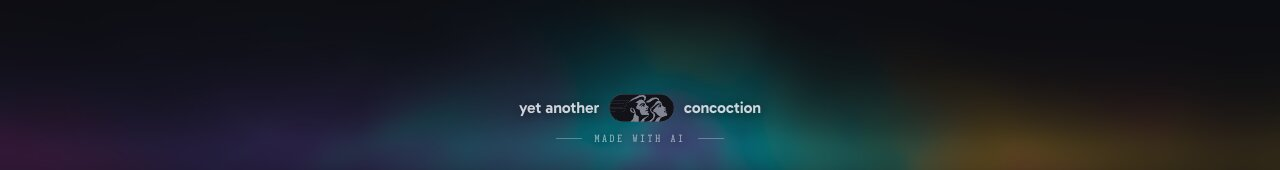
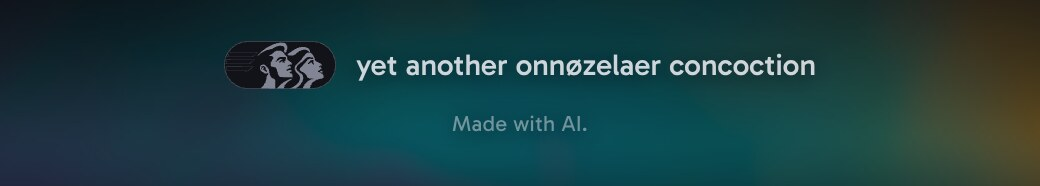
Clock footer: the chip leads the full line 'yet another onnøzelaer concoction'; 'Made with AI.' is a plain disclaimer under it

diff --git a/shared/menu/clock.css b/shared/menu/clock.css
@@ -107,20 +107,26 @@
 .clock-roll svg circle { fill: currentColor; stroke: none; }
 .clock-roll:active svg { rotate: 180deg; }
 
-/* The footer of the Clock: two centred lines. The first reads "yet another [mark] concoction":
-   the mark stands in place of its own name, on the words' middle. The second is a small caption. */
-:root[data-view="clock"] .credit[data-inline] { flex-direction: row; flex-wrap: wrap; justify-content: center; align-items: center; gap: 12px 0.6em; padding-bottom: 26px; }
-.clock-word { font: 600 16px/1 var(--sans); letter-spacing: -0.01em; }
-.clock-mark { position: relative; display: inline-flex; margin: 0 0.15em; }
-:root[data-view="clock"] .clock-mark .onno svg { height: 28px; transition: translate 0.5s cubic-bezier(0.16, 1, 0.3, 1), scale 0.5s cubic-bezier(0.3, 1.5, 0.5, 1); }
-:root[data-view="clock"] .clock-mark .onno:hover svg { translate: 0 -2px; scale: 1.08; }
-/* The caption: small slab caps, wide spaced, between two short hairlines. */
-.clock-note {
-  flex-basis: 100%; display: flex; justify-content: center; align-items: center; gap: 12px;
-  font: 500 10px/1 "Iosevka Term Slab", ui-monospace, monospace; letter-spacing: 0.26em; text-transform: uppercase;
-  color: color-mix(in oklch, var(--fg) 58%, transparent);
-}
-.clock-note::before, .clock-note::after { content: ""; width: 26px; height: 1px; background: currentColor; opacity: 0.55; }
+/* The footer of the Clock: a signature line, then a disclaimer, both centred.
+   The chip leads the line as its seal; the name onnøzelaer stays written in full. */
+:root[data-view="clock"] .credit[data-inline] { flex-direction: column; align-items: center; gap: 10px; padding-bottom: 24px; }
+.clock-sig { display: inline-flex; align-items: center; gap: 10px; cursor: default; }
+.clock-word { font: 500 15px/1.2 var(--sans); letter-spacing: 0; color: color-mix(in oklch, var(--fg) 86%, transparent); }
+.clock-mark { position: relative; display: inline-flex; }
+/* The chip sits a touch taller than the words' capitals and lifts a little on hover. */
+:root[data-view="clock"] .clock-mark .onno svg { height: 24px; transition: translate 0.5s cubic-bezier(0.16, 1, 0.3, 1); }
+:root[data-view="clock"] .clock-sig:hover .onno svg { translate: 0 -1px; }
+/* The whole line lights the chip, as the chip's own hover does on the menu. */
+:root[data-view="clock"] .clock-sig:hover .onno .cm-capsule { fill: oklch(0.16 0.012 275); stroke: oklch(0.95 0.008 275); }
+:root[data-view="clock"] .clock-sig:hover .onno .cm-band { stroke: none; }
+:root[data-view="clock"] .clock-sig:hover .onno .cm-band:nth-of-type(2) { fill: oklch(0.66 0.22 25); }
+:root[data-view="clock"] .clock-sig:hover .onno .cm-band:nth-of-type(3) { fill: oklch(0.86 0.17 90); }
+:root[data-view="clock"] .clock-sig:hover .onno .cm-band:nth-of-type(4) { fill: oklch(0.74 0.15 220); }
+:root[data-view="clock"] .clock-sig:hover .onno .cm-fig { fill: oklch(0.95 0.008 275) !important; }
+:root[data-view="clock"] .clock-sig:hover .onno .cm-grey { fill: #fff; }
+:root[data-view="clock"] .clock-sig:hover .ver { opacity: 1; }
+/* The disclaimer: an attribution, not a boast. Small, plain and quiet. */
+.clock-note { font: 400 11px/1.4 var(--sans); letter-spacing: 0.01em; color: color-mix(in oklch, var(--fg) 46%, transparent); }
 /* The version stands over the mark. */
 :root[data-view="clock"] .clock-mark .ver { left: 50%; bottom: calc(100% + 8px); translate: -50% 0; }
 /* The glow is a shader (mesh.js): light that rises from below the edge and flows. It replaces the CSS glow. */

diff --git a/shared/menu/clock.js b/shared/menu/clock.js
@@ -252,26 +252,25 @@ function start() {
   // The Re-roll stays away for the first five seconds.
   setTimeout(() => button.setAttribute('data-on', ''), 5000);
   addEventListener('keydown', e => { if (e.key.toLowerCase() === 'r' && !e.metaKey && !e.ctrlKey && !e.altKey) roll(); });
-  // The footer: two lines. The mark stands in the first in place of its own name,
-  // "yet another [mark] concoction"; the second is a small caption, "made with AI".
+  // The footer: a signature line, then a disclaimer. The chip is the line's seal: it leads
+  // "yet another onnøzelaer concoction", and the name stays written in full (Tom).
+  // "Made with AI" is an attribution, not a boast: it stays small and plain.
   const credit = /** @type {HTMLElement | null} */ (document.querySelector('.credit'));
   const words0 = credit?.querySelector('span'), mark = credit?.querySelector('.onno'), version = credit?.querySelector('.ver');
   if (credit && words0 && mark) {
-    const [before, after] = words0.textContent.split(/onn[\u00f8o]zelaer/i);
-    if (after !== undefined) {
-      const [noun, ...rest] = after.split('\u00b7');
-      const holder = Object.assign(document.createElement('span'), { className: 'clock-mark' });
-      holder.append(mark);
-      // The version stays the mark's next sibling: the menu's hover rule needs that.
-      if (version) holder.append(version);
-      words0.textContent = before.trim();
-      words0.className = 'clock-word';
-      const tail = Object.assign(document.createElement('span'), { className: 'clock-word', textContent: noun.trim() });
-      const note = Object.assign(document.createElement('span'), { className: 'clock-note', textContent: rest.join('\u00b7').trim() });
-      words0.after(holder, tail, note);
-      if (!note.textContent) note.remove();
-      credit.setAttribute('data-inline', '');
-    }
+    const [line, ...rest] = words0.textContent.split('\u00b7');
+    const note = rest.join('\u00b7').trim();
+    const sig = Object.assign(document.createElement('span'), { className: 'clock-sig' });
+    const seal = Object.assign(document.createElement('span'), { className: 'clock-mark' });
+    seal.append(mark);
+    // The version stays the mark's next sibling: the menu's hover rule needs that.
+    if (version) seal.append(version);
+    words0.textContent = line.trim();
+    words0.className = 'clock-word';
+    words0.before(sig);
+    sig.append(seal, words0);
+    if (note) sig.after(Object.assign(document.createElement('span'), { className: 'clock-note', textContent: note[0].toUpperCase() + note.slice(1) + '.' }));
+    credit.setAttribute('data-inline', '');
     // The glow is a small shader; without WebGL2 the footer keeps its CSS glow.
     // It starts after the intro, so its shader build does not stall the comet.
     setTimeout(() => import('./mesh.js').then(m => m.mesh(credit)).then(ok => { if (ok) credit.setAttribute('data-mesh', ''); }).catch(e => console.warn('Clock mesh:', e)), 2600);

diff --git a/AGENTS.md b/AGENTS.md
@@ -43,7 +43,7 @@ Read `README.md` for the toy list and the full rules.
       - Words: the name (plain B612) and the motto burn in, after the sight's key. The core is always white; a soft band round each letter works against the picture (a faint negative on a dark picture, a deep shade on a bright one). The page keeps its own words for screen readers, and shows them if the tube fails to build.
       - It is dark and deep in colour, and lies behind the clock (Tom: "darker and deeper in color", "it is behind the clock"): a steep curve, more of each hue, full strength in the middle only.
       - It stays in colour; in the Clock only the words are white. It has no hard edge and is wider than the clock (its plate is 124% of the face): it runs behind the ring of toys and fades out past it.
-    - The Clock's footer (Tom, 2026-11-16: "footer gradient needs work and mesh oklch blending, interactivity; the onnozelaer badge needs to be integrated more neatly", then "do something nicer with the footer"). The glow is a small shader, `shared/menu/mesh.js` (raw WebGL2 on `shared/gl.js`, at 0.4 of its CSS size): a slow field of noise picks from a run of hues (magenta, violet, cyan, green, amber, red), mixed in OKLab, and rises from below the edge as a low horizon (340 px at most; Tom: "less tall") that is dimmer at the very foot. The pointer stirs the field and brightens it. Tom kept this glow ("keep current footer") over four other looks: horizon, broadcast, ridges and waves. `docs/qa/clock/footer-looks.jpg` shows all three. It moves for 2.6 s after the last pointer move, then rests on one frame; reduced motion draws one frame. Without WebGL2 the footer keeps the menu's CSS glow. The credit is two centred lines (Tom: "just redo the layout of the footer text"): "yet another [mark] concoction" in Gabarito 600, the mark in place of its own name, then the caption "made with AI" in small wide-spaced slab caps between two short hairlines. `clock.js` builds them from the credit's own text and moves the mark there, with the version over it, so the footer's markup in `index.html` is unchanged and `?all` keeps the old footer. Never clip on the root: the body then clips at its 8 px margin and boxes the glow.
+    - The Clock's footer (Tom, 2026-11-16: "footer gradient needs work and mesh oklch blending, interactivity; the onnozelaer badge needs to be integrated more neatly", then "do something nicer with the footer"). The glow is a small shader, `shared/menu/mesh.js` (raw WebGL2 on `shared/gl.js`, at 0.4 of its CSS size): a slow field of noise picks from a run of hues (magenta, violet, cyan, green, amber, red), mixed in OKLab, and rises from below the edge as a low horizon (340 px at most; Tom: "less tall") that is dimmer at the very foot. The pointer stirs the field and brightens it. Tom kept this glow ("keep current footer") over four other looks: horizon, broadcast, ridges and waves. `docs/qa/clock/footer-looks.jpg` shows all three. It moves for 2.6 s after the last pointer move, then rests on one frame; reduced motion draws one frame. Without WebGL2 the footer keeps the menu's CSS glow. The credit is a signature line and a disclaimer, centred (Tom, 2026-11-16: "onnozelaer stays full label, integrate the chip more smart; the made with AI is not a proud piece, it is a disclaimer and attribution statement"): the chip leads "yet another onnøzelaer concoction" as its seal, with the name written in full, and the whole line lights the chip on hover; under it "Made with AI." in small plain type. `clock.js` builds both from the credit's own text and moves the chip there, with the version over it, so the footer's markup in `index.html` is unchanged and `?all` keeps the old footer. Never clip on the root: the body then clips at its 8 px margin and boxes the glow.
     - The wordmark's letters flash in the footer's run of hues, left to right: magenta, violet, blue, cyan, green, lime, amber, red (Tom, 2026-11-16: "bring our rainbow colors from footer to the wordmark as the interaction colours on the letters"). The menu title (`index.html`) and `MARK` in `shared/stim.js` hold the same eight values; `DESIGN.md` lists them as `mark-1` to `mark-8`.
     - Unattended (Tom, 2026-11-16: "funny stuff" when the clock is left alone): after 12 s with no pointer, key or touch, the clock runs by itself. Each hour in turn puts its toy on the tube, with its name and motto, for 3.6 s. After two laps it stops, so an empty room burns no power. Any input stops it. Reduced motion has no such show. This is the first gag; Tom may ask for more.
     - Font trial (Tom, 2026-11-16: "temporarily change all headings to the Airbus font"): the wordmark is B612, the Airbus cockpit face. For now every heading is B612 too: the clock's name (`tube.js`), the menu's headings (the last block of `clock.css`) and the toy pages' headings (the last block of `shared/stim.css`). Each block says how to end the trial. Decide before the PR merges: the `stim.css` block changes every toy page.
